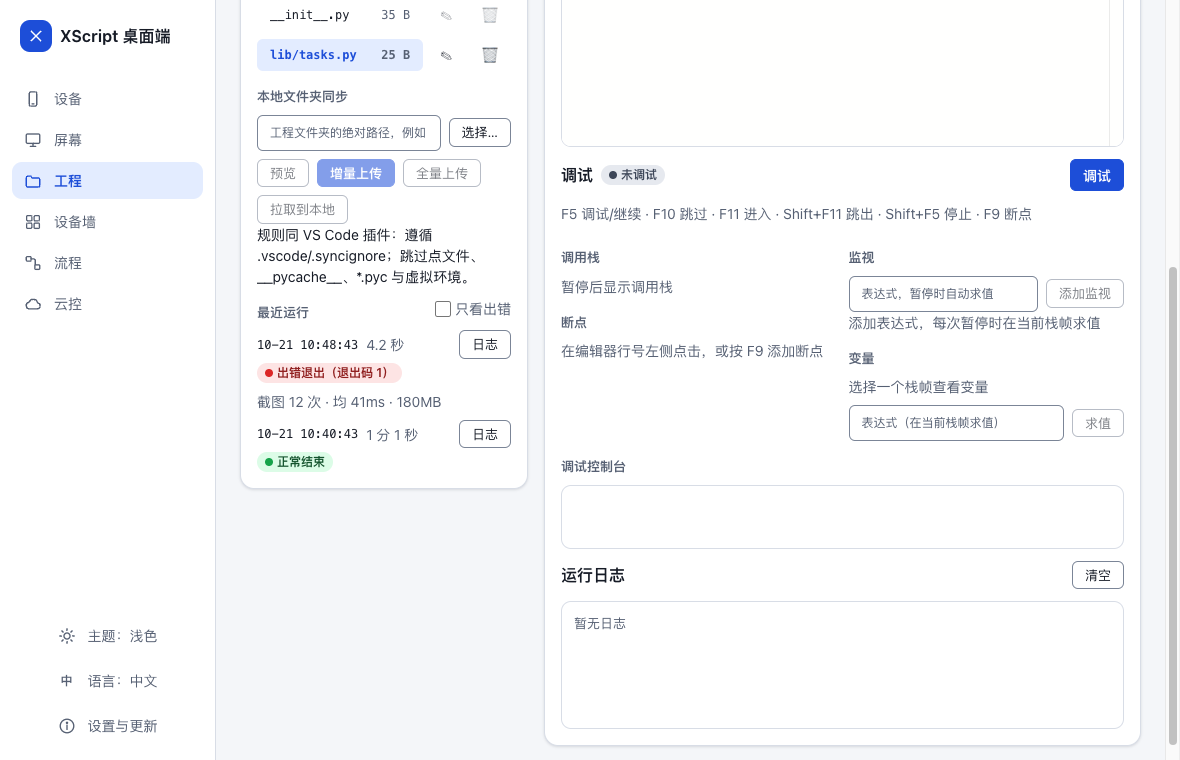
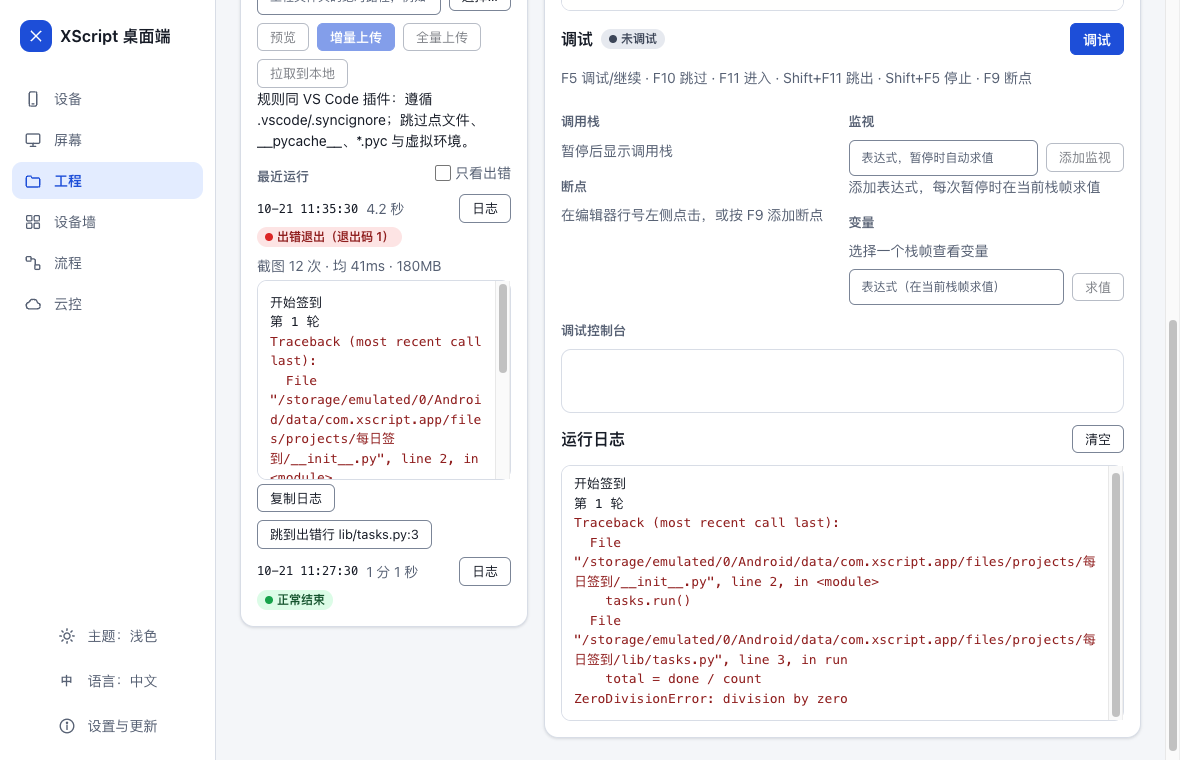
docs(desktop): document copy log / go to error and refresh screenshots

diff --git a/desktop/app/tools/screenshot-recent-runs.js b/desktop/app/tools/screenshot-recent-runs.js
@@ -18,5 +18,8 @@
   (await waitBtn((b) => b.textContent.trim().startsWith("lib/tasks.py")))?.click();
   for (let i = 0; i < 60 && !document.querySelector(".recent-runs li"); i++) await sleep(150);
   await sleep(300);
+  // open the failed run's log: shows 复制日志 and 跳到出错行 (the mock device's log has a traceback there)
+  document.querySelector(".recent-runs li button")?.click();
+  await sleep(1500);
   document.querySelector(".recent-runs")?.scrollIntoView({ block: "center" });
 })();

diff --git a/docs/使用手册.md b/docs/使用手册.md
@@ -447,7 +447,7 @@ yolo export model=runs/detect/train/weights/best.pt format=onnx imgsz=640
 
 ### 设备的最近运行
 
-设备详情里的 **最近运行**（操作员及以上）通过云控连接读取手机上保存的运行记录（每个工程最近 20 次，App v0.5.0 起），不需要和手机在同一网络：选择工程（默认是正在运行或上次运行的工程），列出开始时间、耗时、结束方式（出错退出标红、点停止为灰色）和「运行统计」（截图次数、平均耗时、峰值内存）。打开「只看出错」只列出错的运行。点一行展开那次运行自己的日志（只取那次的输出，报错标红）；那段日志已被手机的日志缓冲区挤掉时会说明。记录只在手机上，服务端不保存，所以设备离线时看不到；手机端版本较旧或工程已删除时会说明。
+设备详情里的 **最近运行**（操作员及以上）通过云控连接读取手机上保存的运行记录（每个工程最近 20 次，App v0.5.0 起），不需要和手机在同一网络：选择工程（默认是正在运行或上次运行的工程），列出开始时间、耗时、结束方式（出错退出标红、点停止为灰色）和「运行统计」（截图次数、平均耗时、峰值内存）。打开「只看出错」只列出错的运行。点一行展开那次运行自己的日志（只取那次的输出，报错标红）；那段日志已被手机的日志缓冲区挤掉时会说明。展开后点 **复制日志** 把这段输出复制到剪贴板；出错的运行如果日志里有 Python 报错（Traceback），还会出现 **跳到出错行 <文件>:<行号>**，点它在编辑器里打开工程中最后出错的那一行（只认这个工程里的文件，按钮的提示里是报错信息；当前文件有未保存的修改时会先问你）。记录只在手机上，服务端不保存，所以设备离线时看不到；手机端版本较旧或工程已删除时会说明。
 
 ![设备详情的最近运行：展开出错退出那次的日志，下面是一次停止和一次正常结束（演示数据）](images/admin-device-runs.png)
 
@@ -571,7 +571,7 @@ yolo export model=runs/detect/train/weights/best.pt format=onnx imgsz=640
 
 **最近运行**：选中工程后，文件列表下方列出手机上记录的这个工程最近几次运行（来自手机的 `GET /projects/<名称>/runs`）：开始时间、用了多久、怎么结束的（出错的标红），脚本自己结束的运行还有截图次数、平均截图耗时和峰值内存。点 **日志** 展开那一次运行的输出；那段日志已被手机的日志缓冲区挤掉时会说明。有出错的运行时标题右侧有「只看出错」，勾选后只列出错退出和进程意外退出的运行。每次运行结束后列表自动刷新。手机上的 XScript 版本较旧、没有这个接口时，这里会提示版本较旧。
 
-![桌面端工程页：最近运行列出一次出错退出（截图 12 次 · 均 41ms · 180MB）和一次正常结束](images/desktop-recent-runs-light.png)
+![桌面端工程页：最近运行展开一次出错退出的日志，下面是「复制日志」和「跳到出错行 lib/tasks.py:3」](images/desktop-recent-runs-light.png)
 
 **界面设计器**：在工程页打开 `res/ui/<名称>.ui.json`（和 VS Code 扩展、网页 IDE 用同一个设计器）时，默认显示设计视图：左边点或拖控件加入表单，中间调整字段顺序或删除，右边改字段属性和窗口标题、按钮、宽高，最右是实时预览。点 **JSON** 切到文本编辑（下方仍有只读预览，文件有问题时列出原因），点 **设计** 切回来。**保存**（Ctrl+S / ⌘S）时同时生成 `res/ui/<名称>.html` 和 `ui_<名称>.py`，脚本里 `from ui_<名称> import show; values = show()` 即可弹出表单；JSON 有错时只保存文本、不生成，并提示原因。新建界面：**新建文件** 输入 `res/ui/<名称>.ui.json`，会带一个空表单。
 
